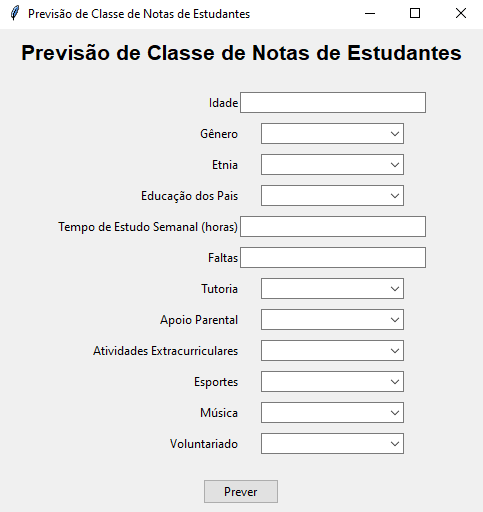
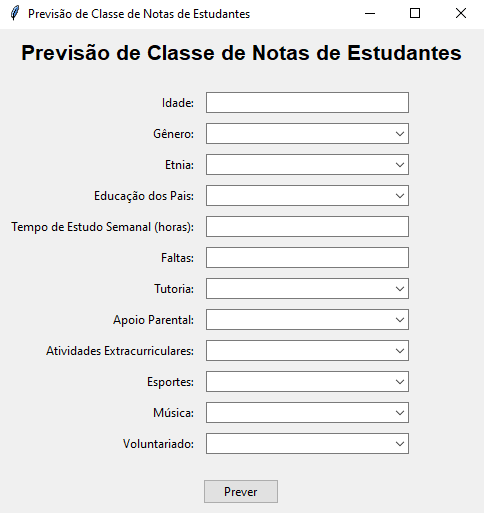
Updated README.md

diff --git a/main.py b/main.py
@@ -69,13 +69,20 @@ model = joblib.load("model/students_model_random_forest.pkl")
 root = tk.Tk()
 root.title("Previsão de Classe de Notas de Estudantes")
 
+# Configurar o grid para centralizar o conteúdo
+root.grid_rowconfigure(0, weight=1)
+root.grid_rowconfigure(1, weight=1)
+root.grid_rowconfigure(2, weight=1)
+root.grid_columnconfigure(0, weight=1)
+root.grid_columnconfigure(1, weight=1)
+
 # Adicionar um título principal
 title = ttk.Label(root, text="Previsão de Classe de Notas de Estudantes", font=("Helvetica", 16, "bold"))
-title.grid(row=0, columnspan=2, pady=10, padx=20)
+title.grid(row=0, column=0, columnspan=2, pady=10, padx=20, sticky='n')
 
 # Criar um frame para organizar os widgets
 frame = ttk.Frame(root, padding="10")
-frame.grid(row=1, column=0, columnspan=2)
+frame.grid(row=1, column=0, columnspan=2, sticky='nsew')
 
 labels = [
     "Idade",
@@ -108,15 +115,15 @@ entries = []
 combobox_vars = {}
 
 for i, label in enumerate(labels):
-    ttk.Label(frame, text=label).grid(row=i, column=0, pady=5, sticky='E')
+    ttk.Label(frame, text=f"{label}:").grid(row=i, column=0, padx=(0, 10), pady=5, sticky='E')
     if label in options: # Se for do MENU SELECIONÁVEL
-        combobox = ttk.Combobox(frame, values=options[label], state="readonly")
-        combobox.grid(row=i, column=1, pady=5)
+        combobox = ttk.Combobox(frame, values=options[label], state="readonly", width=30)
+        combobox.grid(row=i, column=1, pady=5, sticky='ew')
         entries.append(combobox)
         combobox_vars[label] = combobox
     else:
         entry = ttk.Entry(frame, width=30)
-        entry.grid(row=i, column=1, pady=5)
+        entry.grid(row=i, column=1, pady=5, sticky='ew')
         entries.append(entry)
 
 # Associar entradas às variáveis
